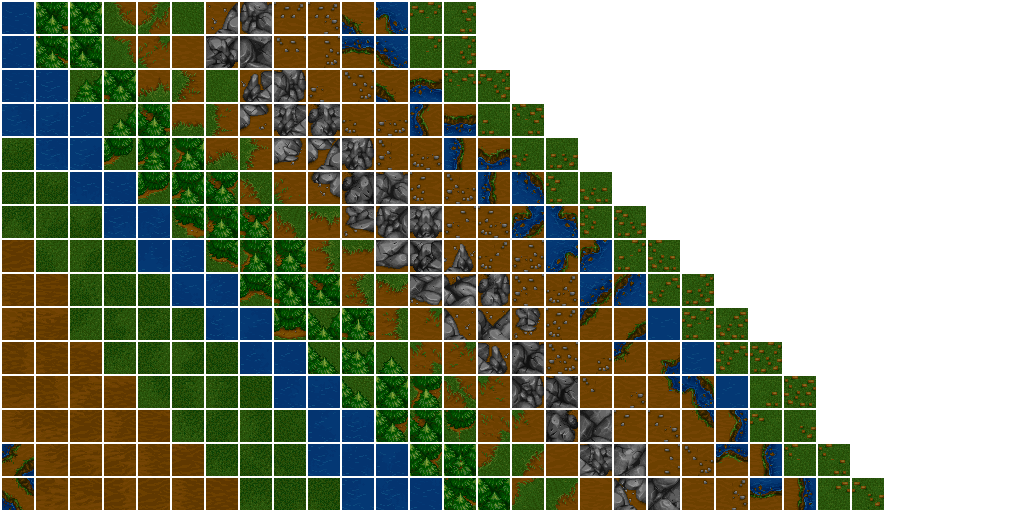
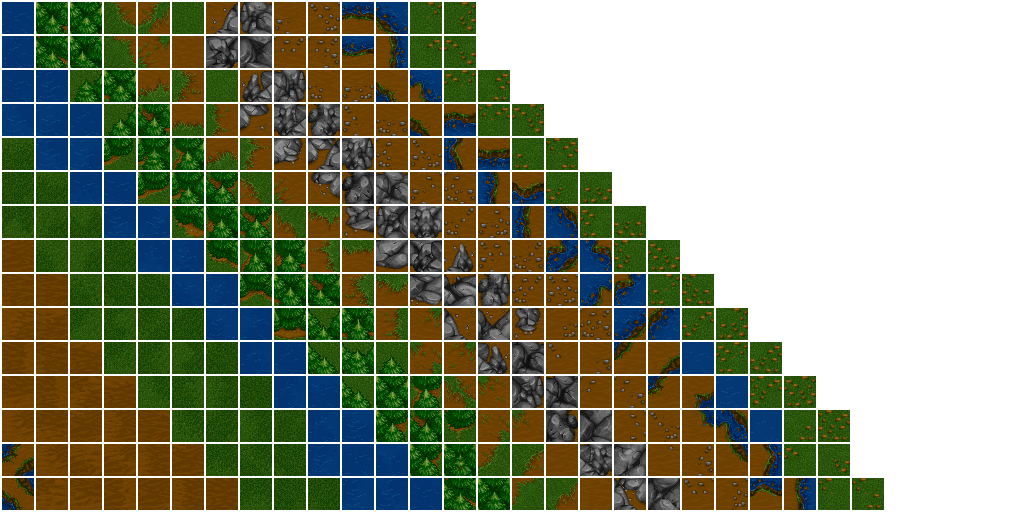
Completely fix rubble errors, and rubbles are correctly loaded with the new Terrain texture provided on Canvas.

diff --git a/core/src/com/warcraftII/terrain_map/TerrainMap.java b/core/src/com/warcraftII/terrain_map/TerrainMap.java
@@ -506,8 +506,16 @@ public class TerrainMap {
             TypeIndex &= (ETerrainTileType.Rock == UR) ? 0xF : 0xD;
             TypeIndex &= (ETerrainTileType.Rock == LL) ? 0xF : 0xB;
             TypeIndex &= (ETerrainTileType.Rock == LR) ? 0xF : 0x7;
-            Type = TypeIndex != 0 ? ETileType.Rock : ETileType.Rubble;
-            Index = TypeIndex;
+//            Type = TypeIndex != 0 ? ETileType.Rock : ETileType.Rubble;
+//            Index = TypeIndex;
+            if (TypeIndex != 0) {
+                Type = ETileType.Rock;
+                Index = TypeIndex;
+            } else {
+                Type = ETileType.Rubble;
+                log.debug("I am rubble");
+                Index = ((ETerrainTileType.Rock == UL) ? 0x1 : 0x0) | ((ETerrainTileType.Rock == UR) ? 0x2 : 0x0) | ((ETerrainTileType.Rock == LL) ? 0x4 : 0x0) | ((ETerrainTileType.Rock == LR) ? 0x8 : 0x0);
+            }
         } else if ((ETerrainTileType.Forest == UL) || (ETerrainTileType.Forest == UR) || (ETerrainTileType.Forest == LL) || (ETerrainTileType.Forest == LR)) {
             TypeIndex &= (ETerrainTileType.Forest == UL) ? 0xF : 0xE;
             TypeIndex &= (ETerrainTileType.Forest == UR) ? 0xF : 0xD;
